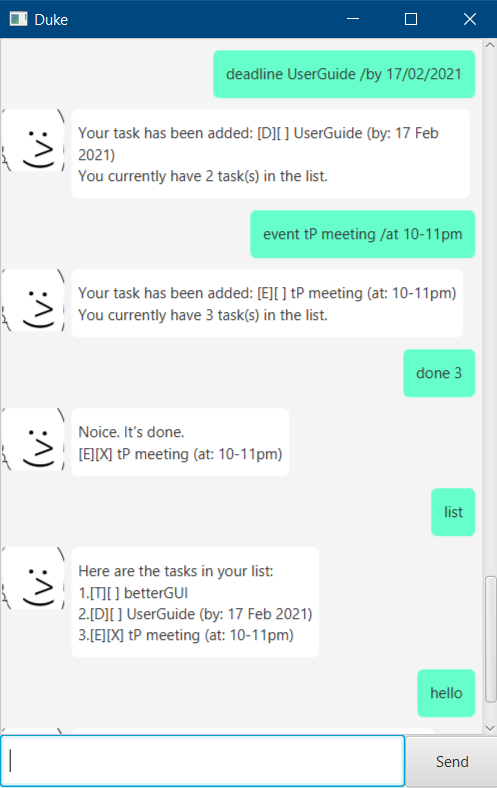
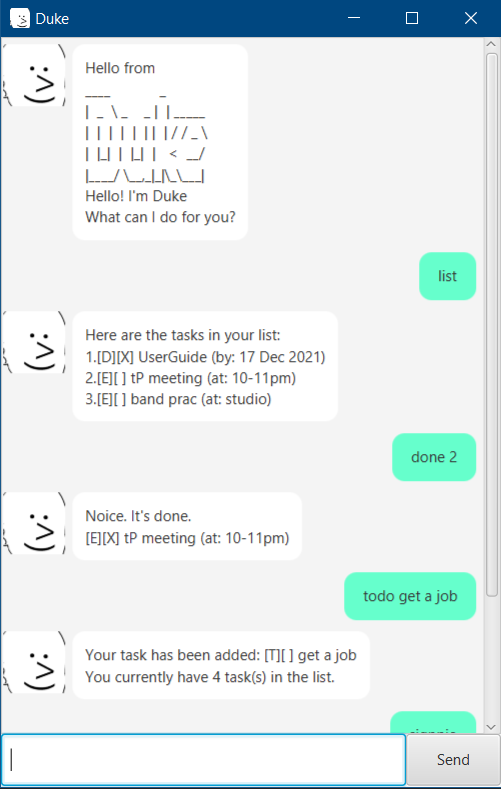
Improve GUI
Add icon and rounder text box.

diff --git a/src/main/java/duke/Main.java b/src/main/java/duke/Main.java
@@ -5,6 +5,7 @@ import java.io.IOException;
 import javafx.application.Application;
 import javafx.fxml.FXMLLoader;
 import javafx.scene.Scene;
+import javafx.scene.image.Image;
 import javafx.scene.layout.AnchorPane;
 import javafx.stage.Stage;
 
@@ -12,8 +13,9 @@ import javafx.stage.Stage;
  * A GUI for Duke using FXML.
  */
 public class Main extends Application {
-
+    private static final String APP_NAME = "Duke";
     private final Duke duke = new Duke();
+    private final Image dukeImage = new Image(this.getClass().getResourceAsStream("/images/squareface.png"));
 
     @Override
     public void start(Stage stage) {
@@ -23,7 +25,8 @@ public class Main extends Application {
             AnchorPane anchorPane = fxmlLoader.load();
             Scene scene = new Scene(anchorPane);
             stage.setScene(scene);
-            stage.setTitle("Duke");
+            stage.getIcons().add(dukeImage);
+            stage.setTitle(APP_NAME);
             fxmlLoader.<MainWindow>getController().setDuke(duke);
             fxmlLoader.<MainWindow>getController().showWelcome();
             stage.show();

diff --git a/src/main/java/duke/DialogBox.java b/src/main/java/duke/DialogBox.java
@@ -43,7 +43,7 @@ public class DialogBox extends HBox {
         }
 
         dialog.setText(text);
-        dialog.setPadding(new Insets(10, 10, 10, 10));
+        dialog.setPadding(new Insets(10, 15, 10, 15));
     }
 
     /**
@@ -57,7 +57,7 @@ public class DialogBox extends HBox {
         var dukeDialogBox = new DialogBox(text);
         dukeDialogBox.dialog.setBackground(new Background(new BackgroundFill(
                 Color.rgb(255, 255, 255),
-                new CornerRadii(5.0),
+                new CornerRadii(10.0),
                 new Insets(0, 5, 0, 5))));
 
         ImageView imageNode = new ImageView(image);
@@ -79,7 +79,7 @@ public class DialogBox extends HBox {
         var userDialogBox = new DialogBox(text);
         userDialogBox.dialog.setBackground(new Background(new BackgroundFill(
                 Color.rgb(102, 255, 204),
-                new CornerRadii(5.0),
+                new CornerRadii(10.0),
                 null)));
         return userDialogBox;
     }

diff --git a/src/main/java/duke/Ui.java b/src/main/java/duke/Ui.java
@@ -11,10 +11,10 @@ public class Ui {
      */
     public static String showWelcome() {
         return "Hello from\n"
-                + " ____        _        \n"
-                + "|  _ \\ _   _| | _____ \n"
-                + "| | | | | | | |/ / _ \\\n"
-                + "| |_| | |_| |   <  __/\n"
+                + "____            _        \n"
+                + "|  _  \\ _    _ |  | _____ \n"
+                + "|  |  |  |  |  | |  | / / _ \\\n"
+                + "|  |_|  |  |_|  |   <  __/\n"
                 + "|____/ \\__,_|_|\\_\\___|\n"
                 + "Hello! I'm Duke\n"
                 + "What can I do for you?";

diff --git a/src/main/java/duke/MainWindow.java b/src/main/java/duke/MainWindow.java
@@ -23,7 +23,7 @@ public class MainWindow extends AnchorPane {
     private Button sendButton;
 
     private Duke duke;
-    private Image dukeImage = new Image(this.getClass().getResourceAsStream("/images/squareface.png"));
+    private final Image dukeImage = new Image(this.getClass().getResourceAsStream("/images/squareface.png"));
 
     @FXML
     public void initialize() {
